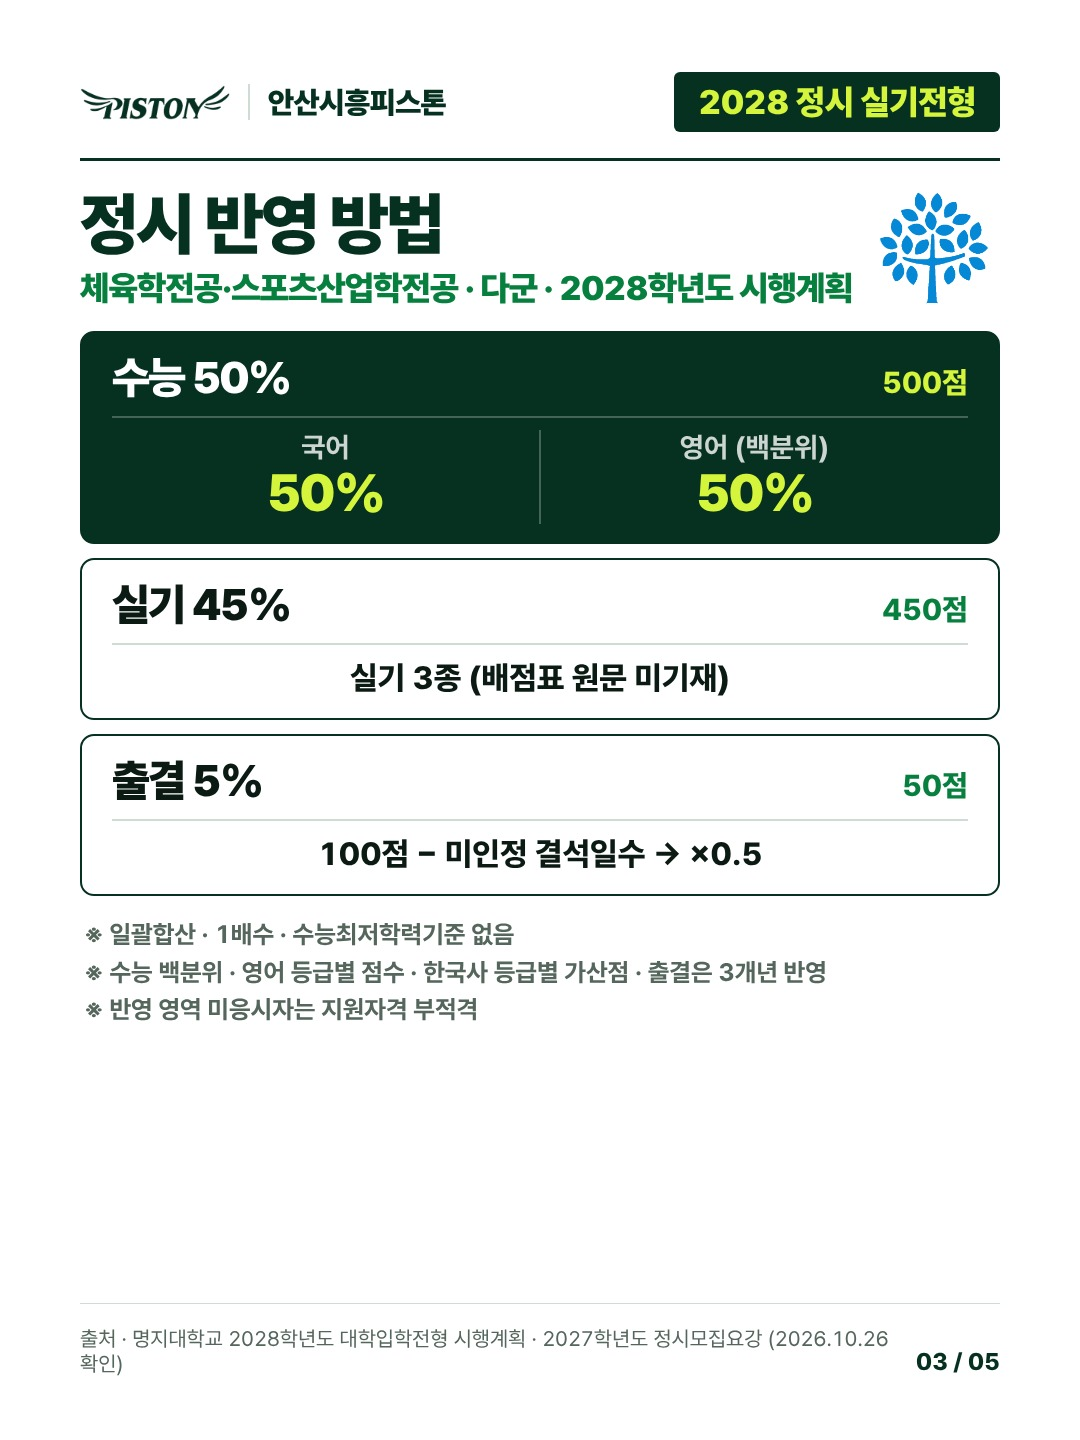
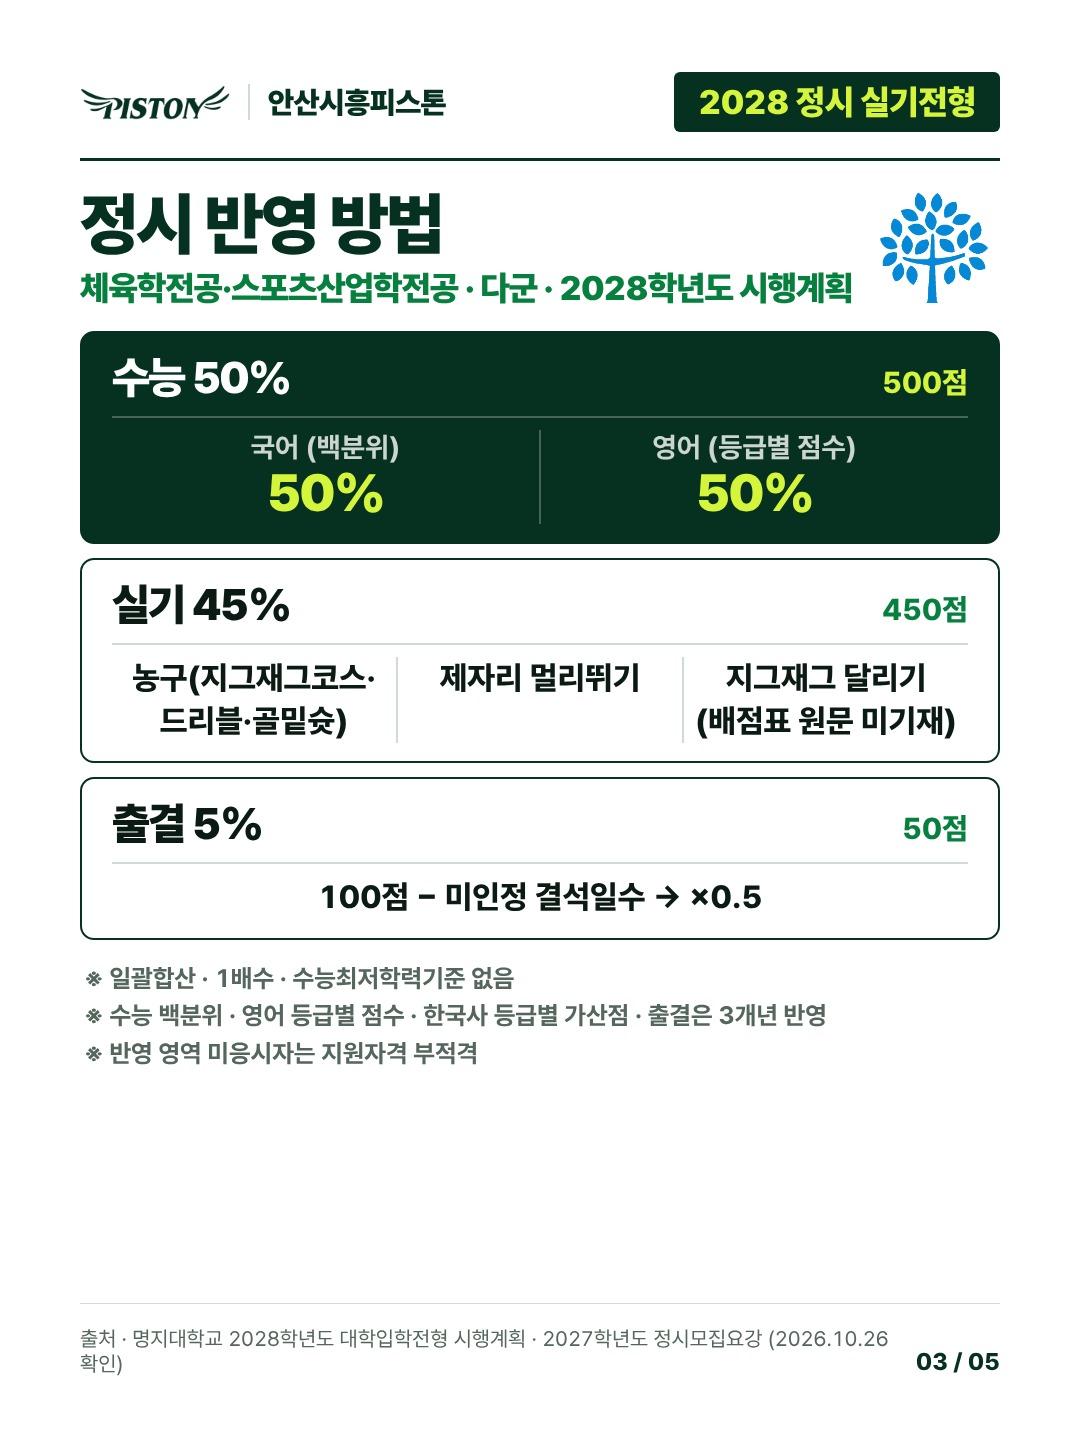
mju: 실기 종목 명시, 영어 등급별 점수 표기
Claude-Session: https://claude.ai/code/session_01EGTn7G8nWP1yv5M2jqmoFb

diff --git a/social/out/mju-jeongsi-jeongsi/blog.md b/social/out/mju-jeongsi-jeongsi/blog.md
@@ -26,8 +26,8 @@
 ## 정시 반영 방법 (체육학전공·스포츠산업학전공 · 다군 · 2028학년도 시행계획)
 | 구분 | 비율 · 점수 | 반영 내용 |
 | --- | --- | --- |
-| 수능 | 50% · 500점 | 국어 50% · 영어 50% (백분위) |
-| 실기 | 45% · 450점 | 실기 3종 (배점표 원문 미기재) |
+| 수능 | 50% · 500점 | 국어 50% (백분위) · 영어 50% (등급별 점수) |
+| 실기 | 45% · 450점 | 농구(지그재그코스·드리블·골밑슛) · 제자리 멀리뛰기 · 지그재그 달리기 (배점표 원문 미기재) |
 | 출결 | 5% · 50점 | 100점 − 미인정 결석일수 → ×0.5 |
 
 ※ 일괄합산 · 1배수 · 수능최저학력기준 없음
